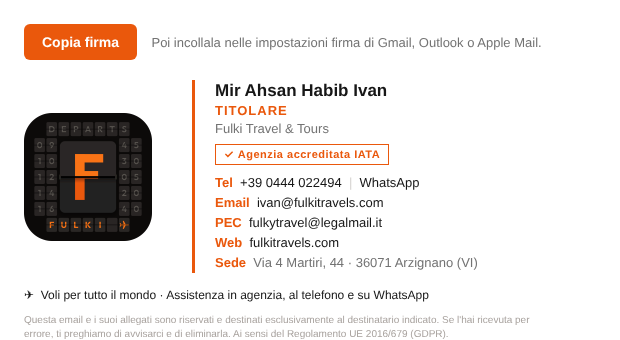
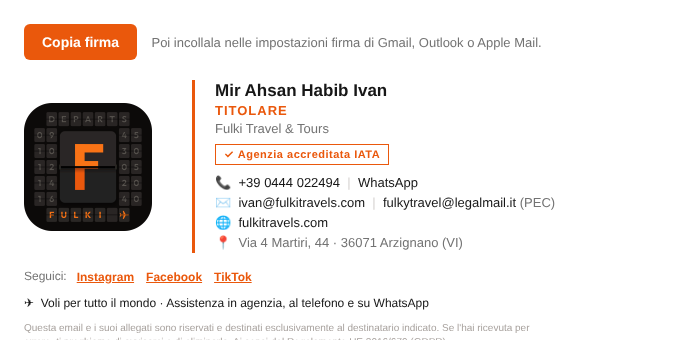
Email signature: symbols, PEC beside email, linked socials back
Use 📞 ✉ 🌐 📍 in place of text labels, put the PEC on the email line marked
(PEC), restore the Instagram/Facebook/TikTok links (underlined so they read as
links) and open web links in a new tab.

Claude-Session: https://claude.ai/code/session_012i9D2bg1WpjypzUyK7HTz2

Changed region(s): [[0.0306, 0.2353, 0.8581, 1.0], [0.0306, 0.2941, 0.2452, 0.7059], [0.0306, 0.0588, 0.8887, 0.1765]]

diff --git a/assets/email-signature/mir-ahsan-habib-ivan.html b/assets/email-signature/mir-ahsan-habib-ivan.html
@@ -21,7 +21,7 @@
 <table id="firma" cellpadding="0" cellspacing="0" border="0" role="presentation" style="border-collapse:collapse;font-family:Arial,Helvetica,sans-serif;color:#171717;">
   <tr>
     <td width="148" style="width:148px;padding:0 20px 0 0;vertical-align:middle;border-right:3px solid #ea580c;">
-      <a href="https://fulkitravels.com/it/" style="text-decoration:none;">
+      <a href="https://fulkitravels.com/it/" target="_blank" style="text-decoration:none;">
         <img src="https://fulkitravels.com/assets/logo/f-board/png/fulki-f-board-black-orange.png" width="128" height="128" alt="Fulki Travel &amp; Tours" style="display:block;border:0;width:128px;height:128px;">
       </a>
     </td>
@@ -35,31 +35,41 @@
         </tr>
       </table>
       <div style="font-size:13px;line-height:20px;color:#171717;">
-        <span style="color:#ea580c;font-weight:bold;">Tel</span>&nbsp;
+        <span style="font-size:13px;">📞</span>&nbsp;
         <a href="tel:+390444022494" style="color:#171717;text-decoration:none;">+39 0444 022494</a>
         &nbsp;<span style="color:#d6d3d1;">|</span>&nbsp;
-        <a href="https://wa.me/390444022494" style="color:#171717;text-decoration:none;">WhatsApp</a>
+        <a href="https://wa.me/390444022494" target="_blank" style="color:#171717;text-decoration:none;">WhatsApp</a>
       </div>
       <div style="font-size:13px;line-height:20px;color:#171717;">
-        <span style="color:#ea580c;font-weight:bold;">Email</span>&nbsp;
+        <span style="font-size:13px;">✉</span>&nbsp;
         <a href="mailto:ivan@fulkitravels.com" style="color:#171717;text-decoration:none;">ivan@fulkitravels.com</a>
+        &nbsp;<span style="color:#d6d3d1;">|</span>&nbsp;
+        <a href="mailto:fulkytravel@legalmail.it" style="color:#171717;text-decoration:none;">fulkytravel@legalmail.it</a> <span style="color:#737373;">(PEC)</span>
       </div>
       <div style="font-size:13px;line-height:20px;color:#171717;">
-        <span style="color:#ea580c;font-weight:bold;">PEC</span>&nbsp;
-        <a href="mailto:fulkytravel@legalmail.it" style="color:#171717;text-decoration:none;">fulkytravel@legalmail.it</a>
-      </div>
-      <div style="font-size:13px;line-height:20px;color:#171717;">
-        <span style="color:#ea580c;font-weight:bold;">Web</span>&nbsp;
-        <a href="https://fulkitravels.com/it/" style="color:#171717;text-decoration:none;">fulkitravels.com</a>
+        <span style="font-size:13px;">🌐</span>&nbsp;
+        <a href="https://fulkitravels.com/it/" target="_blank" style="color:#171717;text-decoration:none;">fulkitravels.com</a>
       </div>
       <div style="font-size:13px;line-height:20px;color:#737373;">
-        <span style="color:#ea580c;font-weight:bold;">Sede</span>&nbsp;
+        <span style="font-size:13px;">📍</span>&nbsp;
         Via 4 Martiri, 44 · 36071 Arzignano (VI)
       </div>
     </td>
   </tr>
   <tr>
-    <td colspan="2" style="padding:14px 0 0 0;font-size:12px;line-height:16px;color:#171717;">
+    <td colspan="2" style="padding:14px 0 0 0;">
+      <table cellpadding="0" cellspacing="0" border="0" role="presentation" style="border-collapse:collapse;">
+        <tr>
+          <td style="font-size:12px;line-height:16px;color:#737373;padding-right:10px;">Seguici:</td>
+          <td style="padding-right:12px;"><a href="https://www.instagram.com/fulki.travel/" target="_blank" style="font-size:12px;line-height:16px;color:#ea580c;font-weight:bold;text-decoration:underline;">Instagram</a></td>
+          <td style="padding-right:12px;"><a href="https://www.facebook.com/share/195f9rcAd8/" target="_blank" style="font-size:12px;line-height:16px;color:#ea580c;font-weight:bold;text-decoration:underline;">Facebook</a></td>
+          <td><a href="https://www.tiktok.com/@fulki.travels" target="_blank" style="font-size:12px;line-height:16px;color:#ea580c;font-weight:bold;text-decoration:underline;">TikTok</a></td>
+        </tr>
+      </table>
+    </td>
+  </tr>
+  <tr>
+    <td colspan="2" style="padding:10px 0 0 0;font-size:12px;line-height:16px;color:#171717;">
       ✈&nbsp; Voli per tutto il mondo · Assistenza in agenzia, al telefono e su WhatsApp
     </td>
   </tr>
